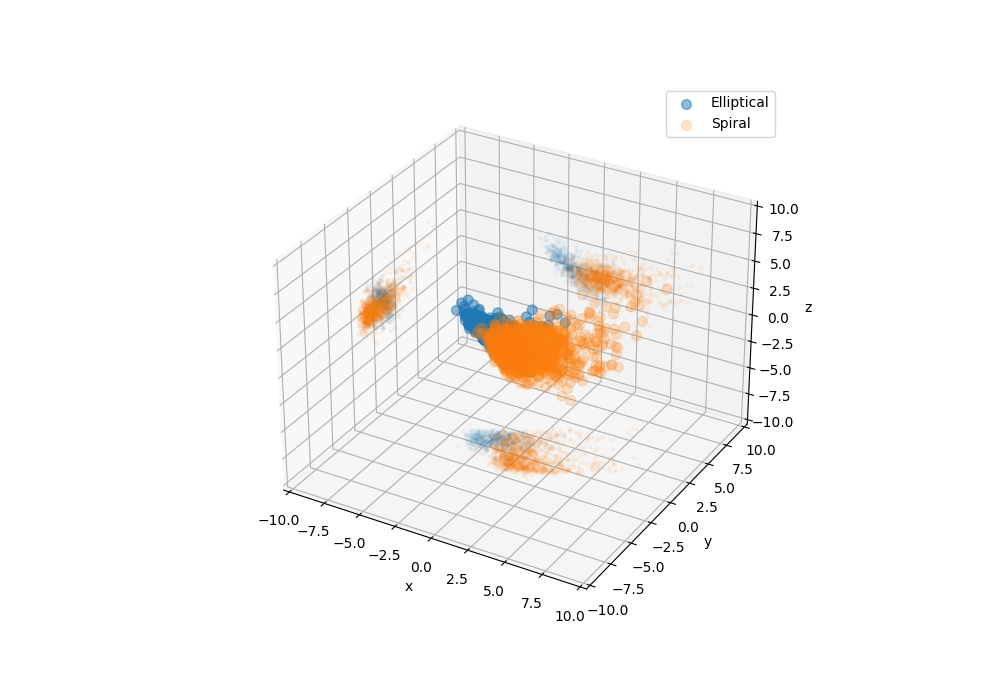
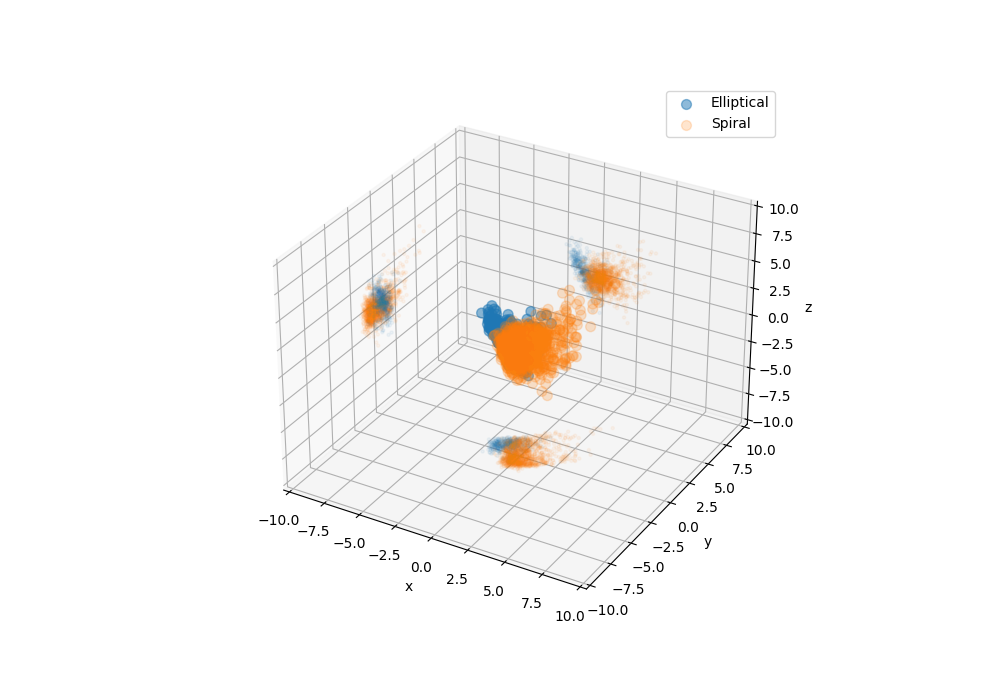
fix transformation

Changed region(s): [[0.434, 0.33, 0.682, 0.6], [0.465, 0.6, 0.62, 0.69], [0.341, 0.39, 0.403, 0.48]]

diff --git a/galaxies/pca.py b/galaxies/pca.py
@@ -18,6 +18,8 @@ T = pca.transform(X)
 mu = T.mean(axis=0)
 sigma = T.std(axis=0)
 
+T = (T-mu)/sigma
+
 spirals = T[data['class_label'] == 'spiral']
 ellipticals = T[data['class_label'] == 'elliptical']
 
